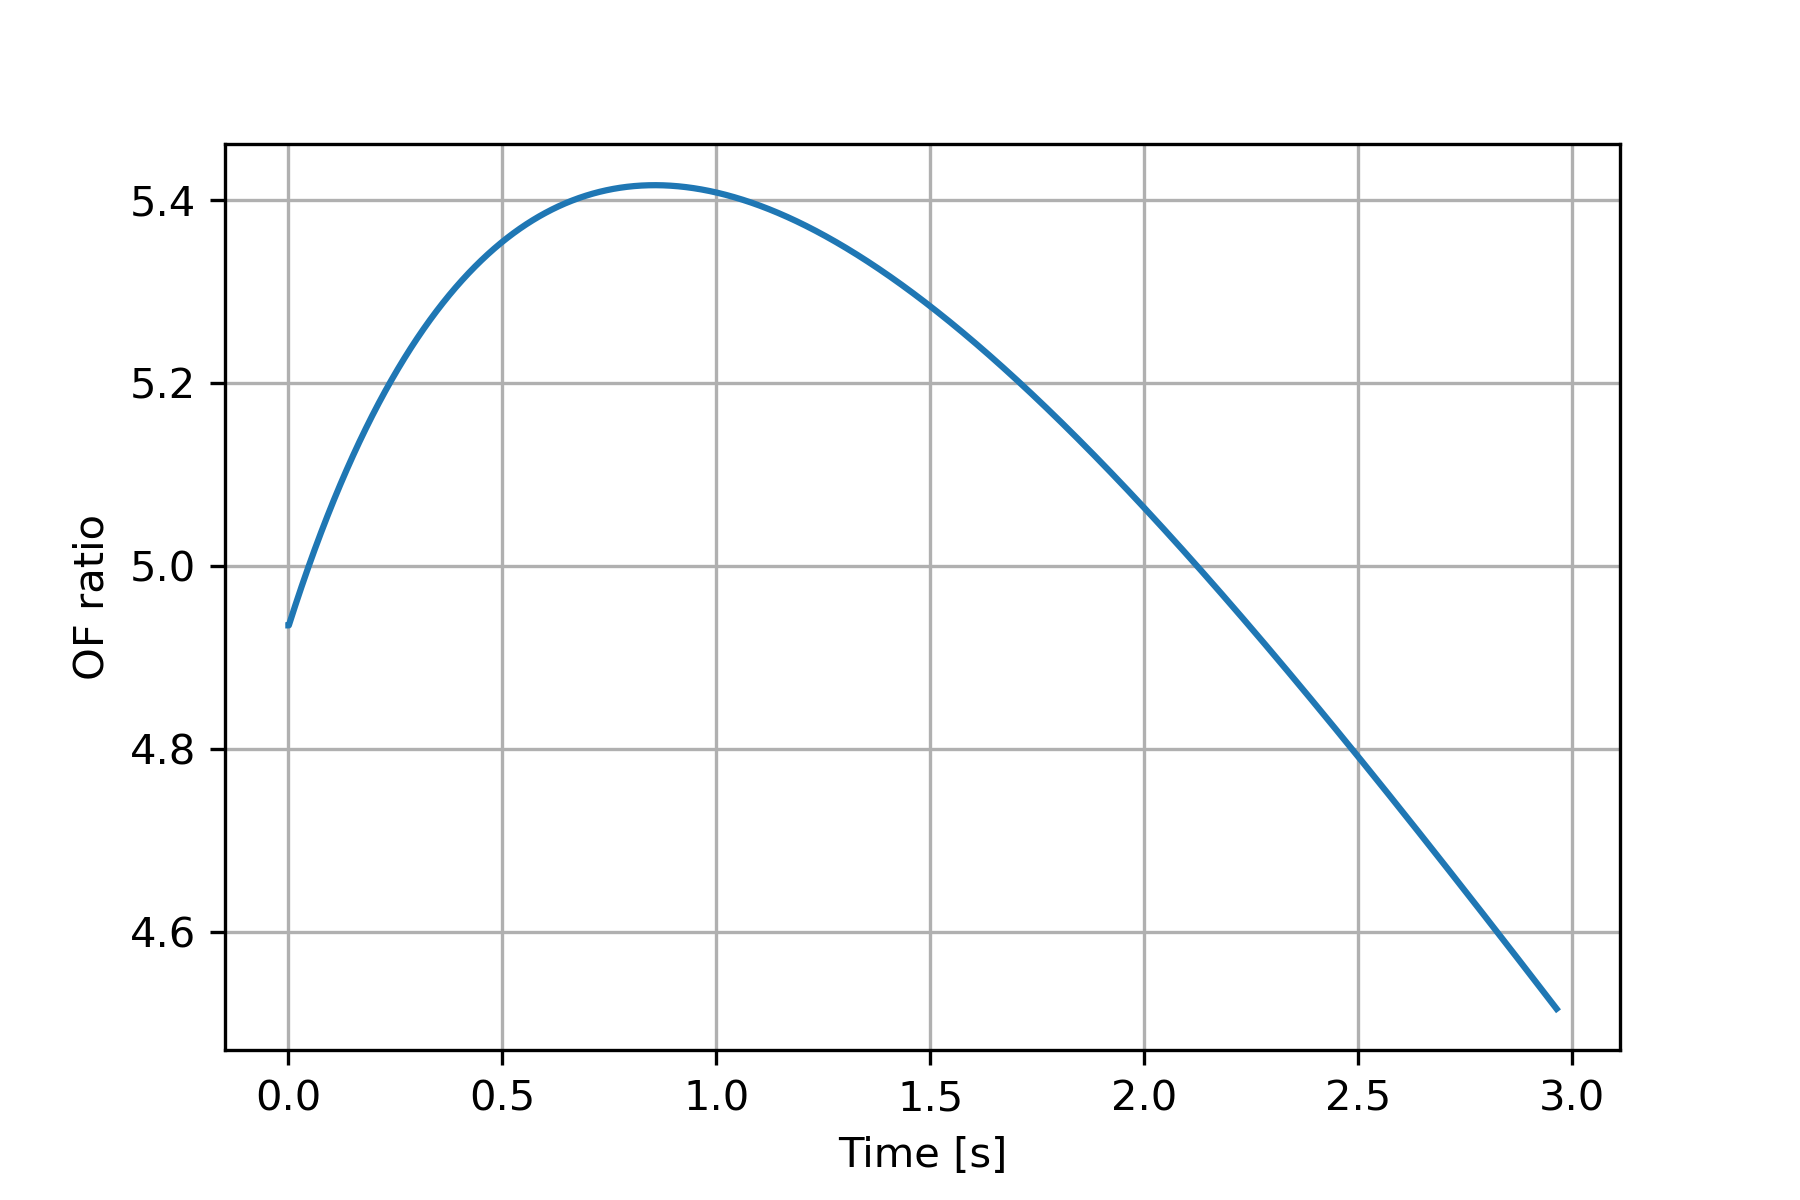
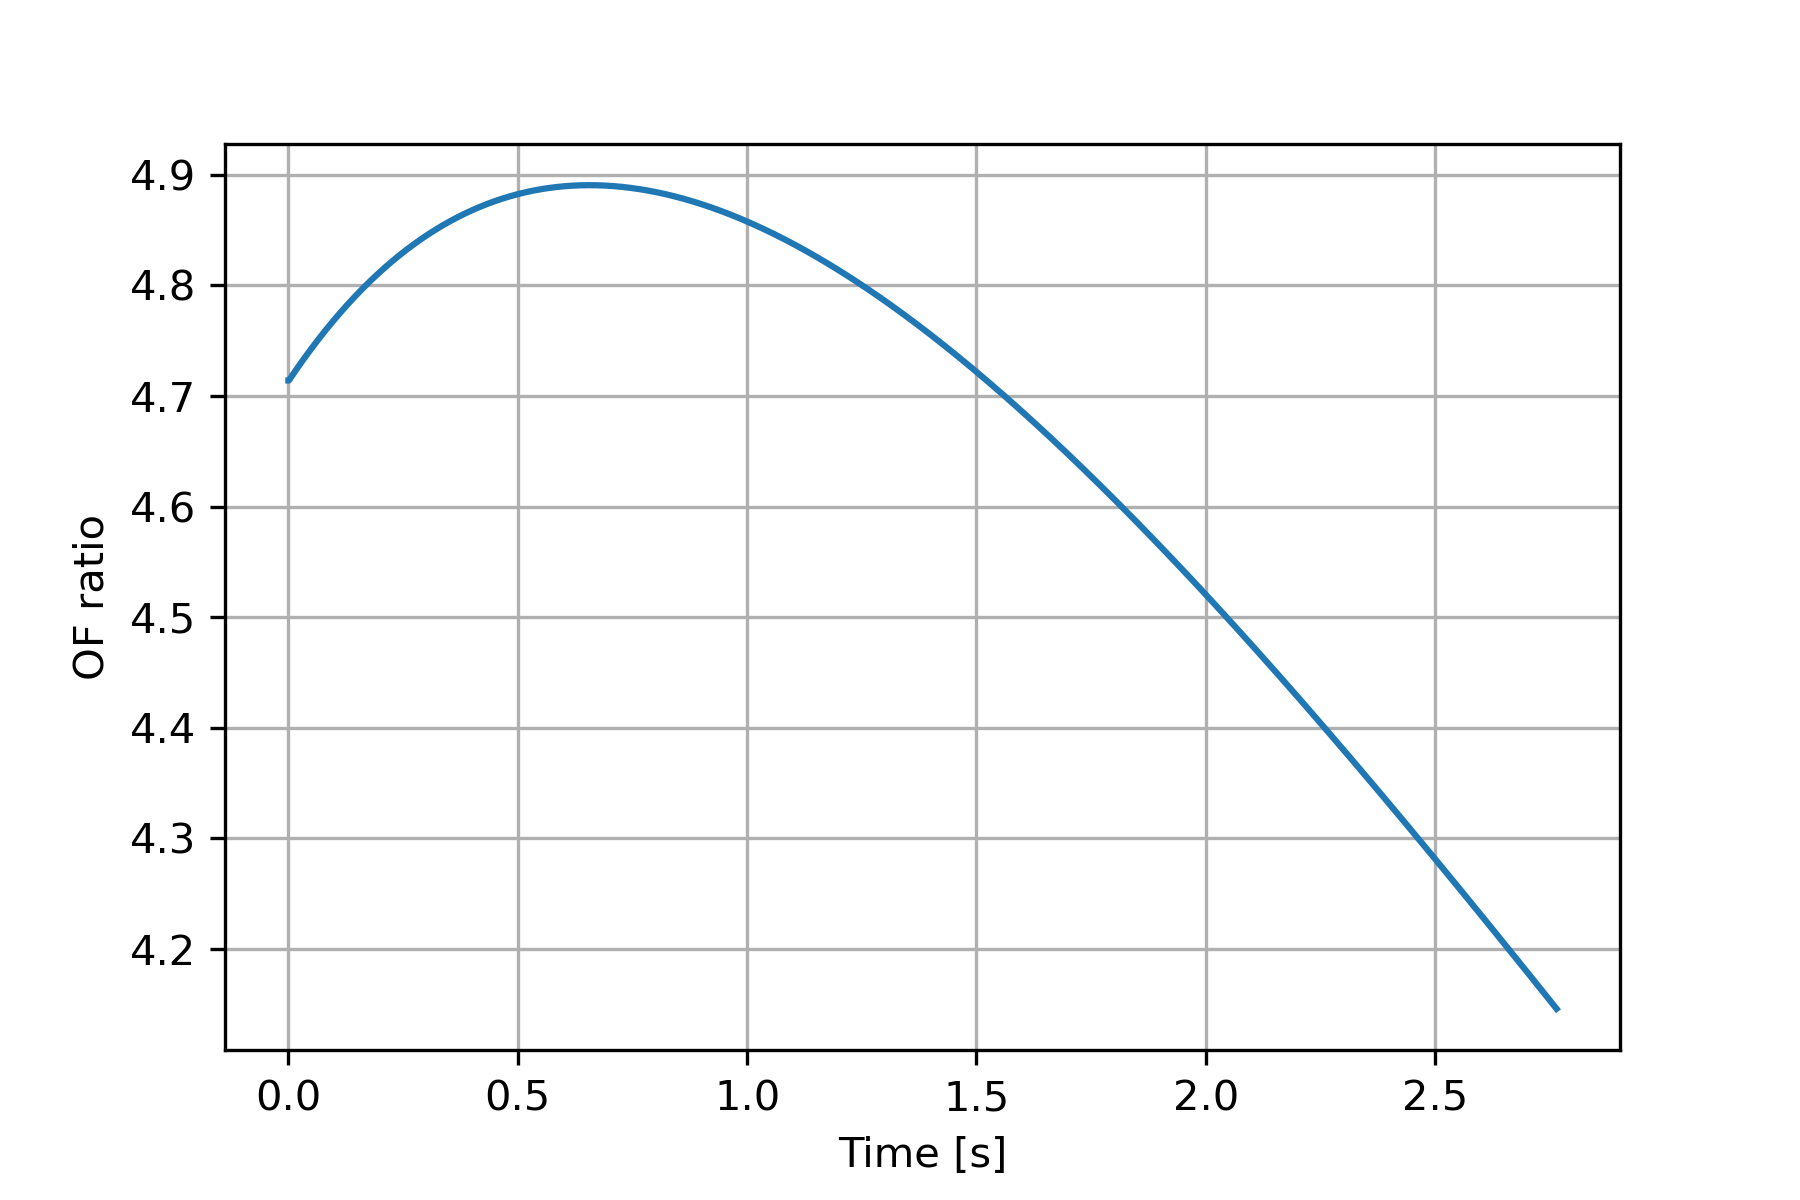
Changed air tank blowout to isochoric process (from isothermal)

diff --git a/Blowout/AirBlowout.py b/Blowout/AirBlowout.py
@@ -22,15 +22,16 @@ class Solver:
         #initial Parameters
         Pstart = self.Ptank
         m0 = (self.Ptank*Vtank)/(self.R*self.T0)
-        #print("m_start:", m0, "Ptank: ", self.Ptank)
+        print("m_start:", m0, "Ptank: ", self.Ptank)
         t = 0
         
         #Arrays
         P = [Pstart]
         m = [m0]
-        rho = [m0/Vtank]
+        T = [self.T0]
+        rho =[m0/Vtank]
         time = [t]
-        mdot = [-(m0*Aexit/Vtank)*np.sqrt(2*self.R*self.T0 - self.P0*Vtank)]
+        mdot = [-(rho[0]*Aexit*np.sqrt(2*(Pstart-self.P0)/rho[0]))]
         print("mdot start: ", mdot[0])
         
         
@@ -38,17 +39,31 @@ class Solver:
         
         while t < tf:
             
-            #mass flowrate
-            mdot1 = -(m[count]*Aexit/Vtank)*np.sqrt(2*self.R*self.T0 - self.P0*Vtank)
-            mdot.append(mdot1)
+            #Initiate temperature variable to use in first loop
+            if count == 0:
+                T1 = T[count]
             
+            #mass flowrate
+            mdot1 = -(rho[count]*Aexit*np.sqrt(2*(P[count]-self.P0)/rho[count]))
+            mdot.append(mdot1)
+                
             #mass
             m1 = m[count] + (mdot[count+1]+mdot[count])*dt*0.5
             m.append(m1)
-            
+                        
             #Pressure
-            P1 = m[count]*self.R*self.T0/Vtank
+            P1 = P[count]*m1*T1/(m[count]*T[count])
             P.append(P1)
+            
+            #Temperature
+            T1 = P1*T[count]/P[count]
+            T.append(T1)
+            
+            #Density
+            rho1 = m[count+1]/Vtank
+            rho.append(rho1)
+
+           
             
             t += dt
             time.append(t)
@@ -57,7 +72,7 @@ class Solver:
 
         
         print("Time: ",t,"mass: ", m[count], "mdot: ", mdot[count], "Pressure: ",P[count])
-        return mdot, P, time
+        return mdot, P,T, time
     
     def fuelTank(self, dt, Aexit, VR, m0):
         """Numerically solves fuel tank blowout, using tank parameters and timestp dt"""
@@ -148,7 +163,7 @@ Ae_a = 5.04112*10**-6  #m^2, Exit Area
 
 tf = t[-1]
 
-mdot_a, P_a, t_a = SolverInstance.airTank(dt, V_a, Ae_a, tf)
+mdot_a, P_a, T_a, t_a = SolverInstance.airTank(dt, V_a, Ae_a, tf)
 
 OF = SolverInstance.OFratio(mdot_a,mdot_f)
 
@@ -161,7 +176,7 @@ print("OF variance: ", OF_variance, "OF average: ", OF_avg)
 plt.figure(1)
 plt.clf()
 plt.plot(t, mdot_f, label='Fuel Tank')
-plt.plot(t, mdot_a, label='Air Tank')
+plt.plot(t_a, mdot_a, label='Air Tank')
 
 plt.grid(1)
 plt.xlabel("Time [s]")
@@ -173,7 +188,7 @@ plt.legend()
 plt.figure(2)
 plt.clf()
 plt.plot(t, P_f, label='Fuel Tank')
-plt.plot(t, P_a, label='Air Tank')
+plt.plot(t_a, P_a, label='Air Tank')
 
 plt.grid(1)
 plt.xlabel("Time [s]")
@@ -189,6 +204,16 @@ plt.grid(1)
 plt.xlabel("Time [s]")
 plt.ylabel("OF ratio")
 plt.savefig('OF_vs_time.png', dpi=300)
+
+plt.figure(4)
+plt.clf()
+plt.plot(t_a, T_a)
+
+plt.grid(1)
+plt.xlabel("Time [s]")
+plt.ylabel("Tempurature")
+plt.savefig('Temp_vs_time.png', dpi=300)
+
 
 
 plt.ion()
